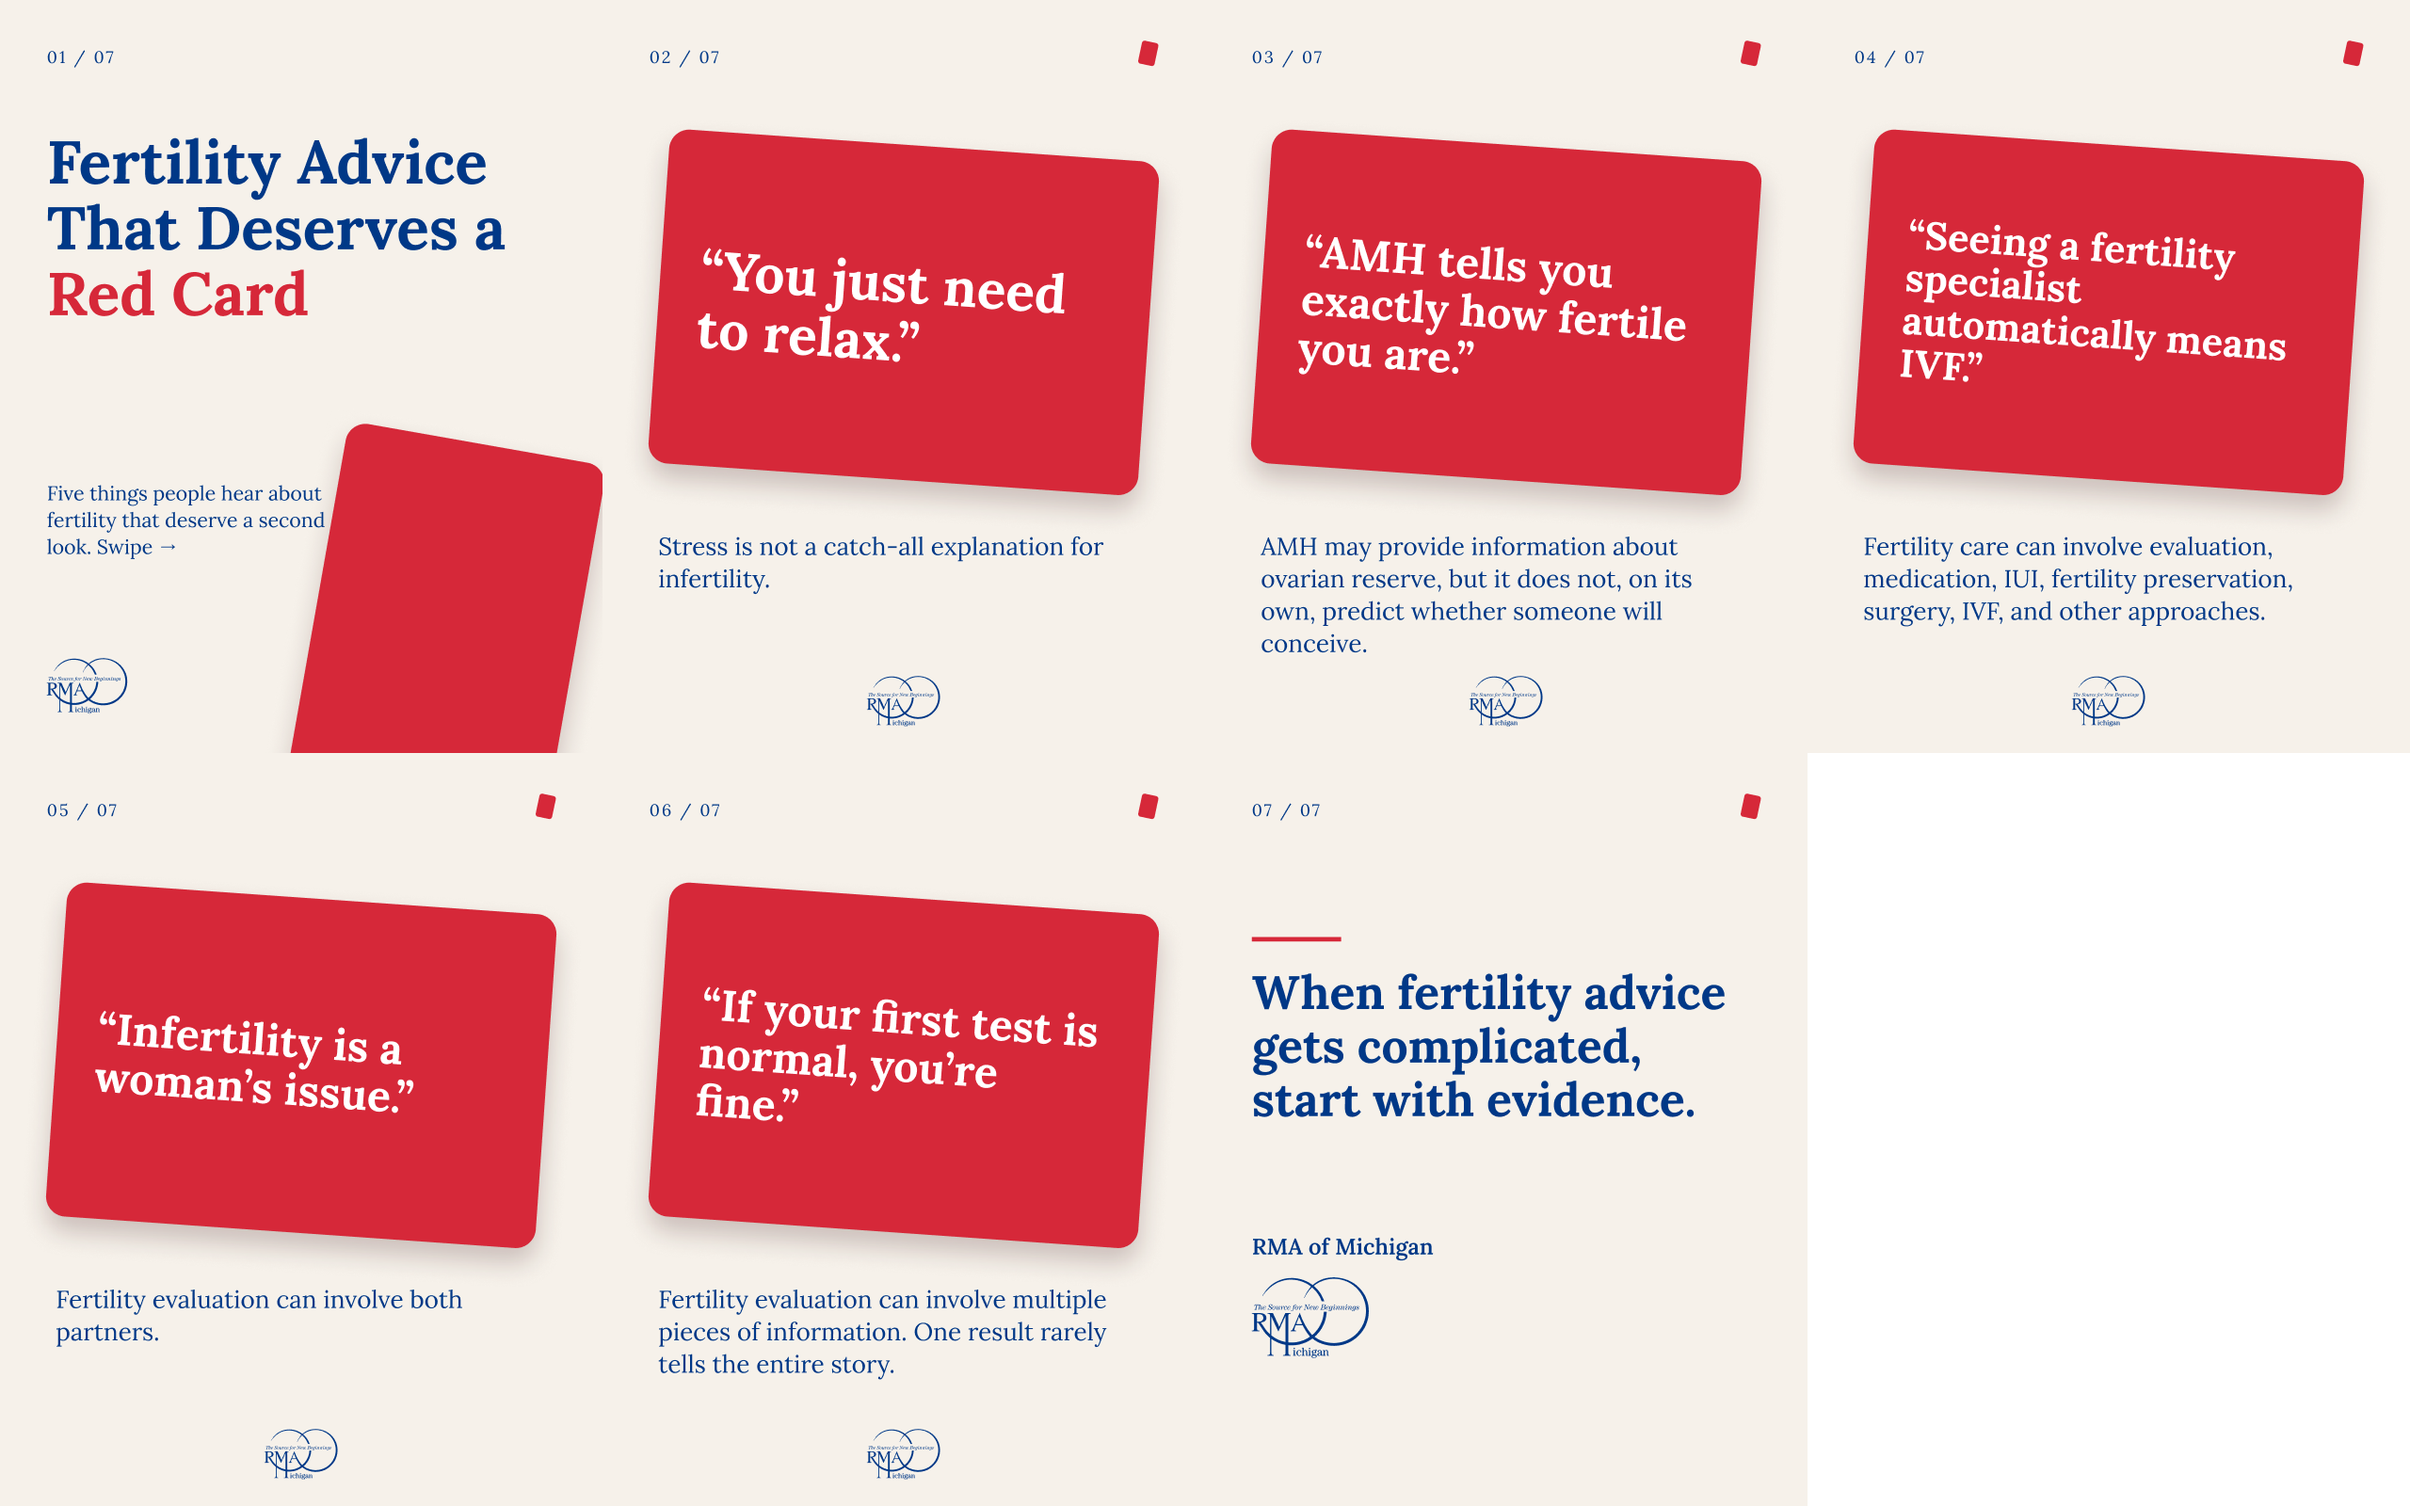
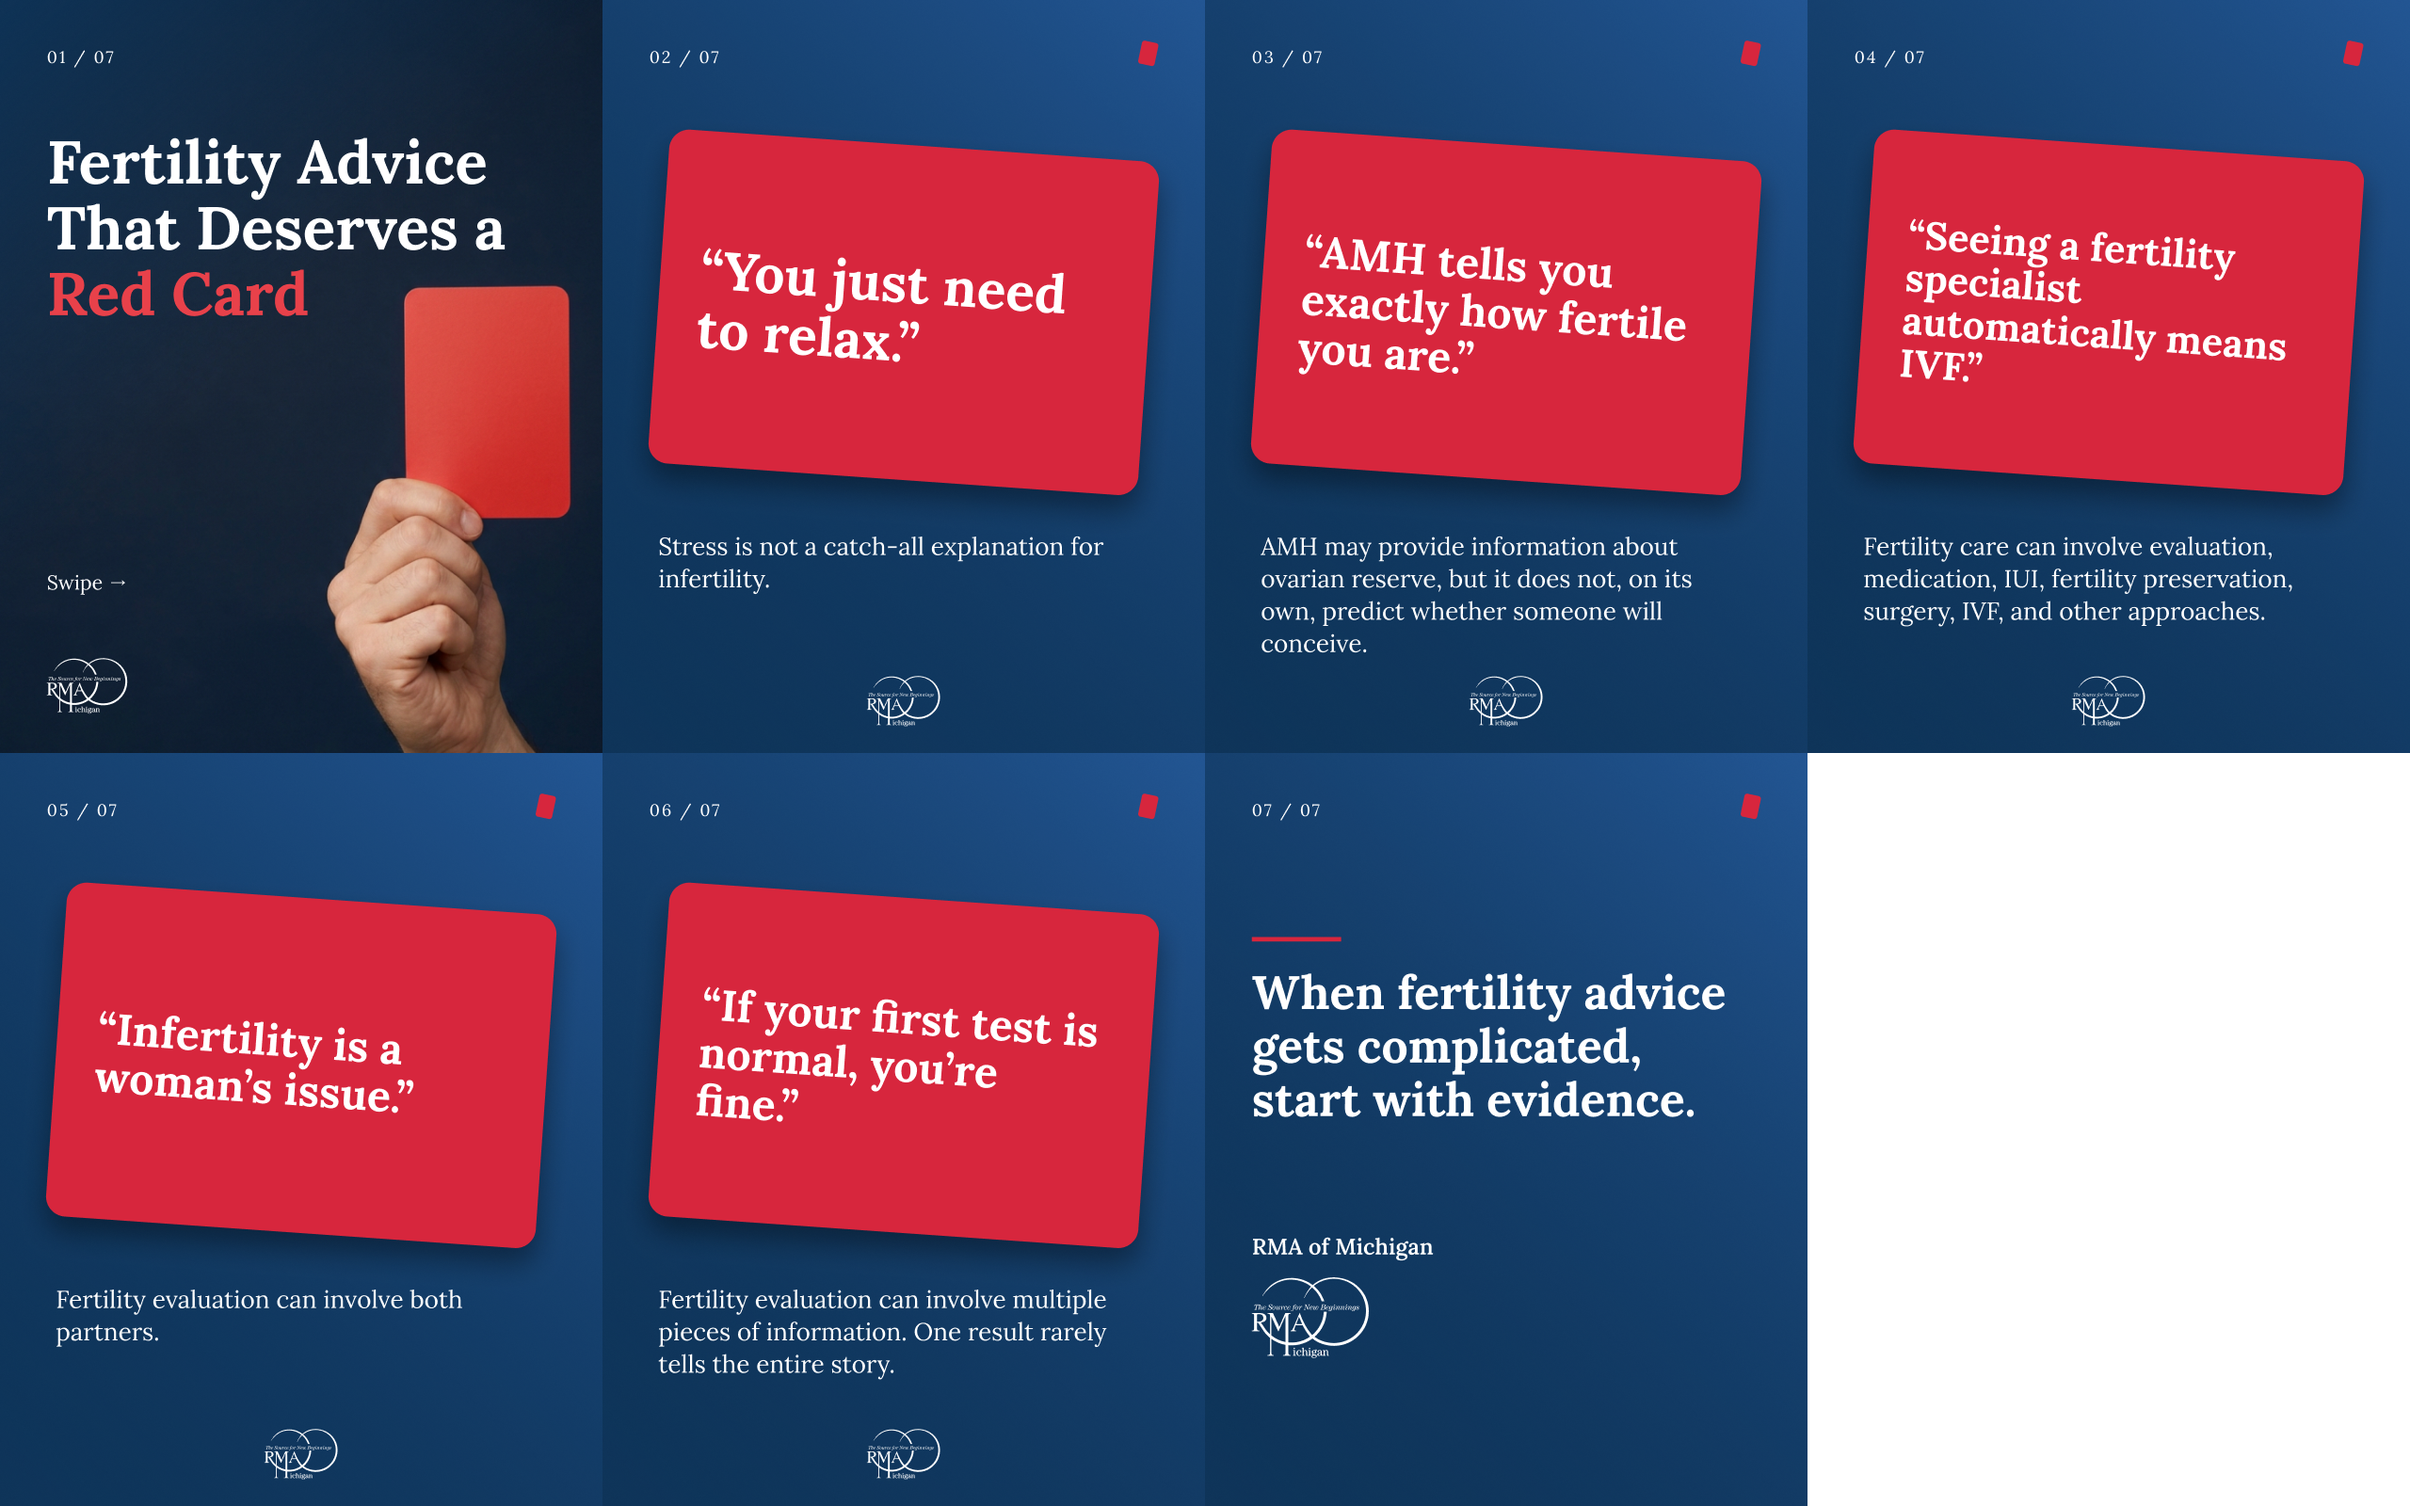
Move the red-card trend carousel onto brand navy with a generated hand photo on the cover
Claude-Session: https://claude.ai/code/session_016yKrfT8RQFRJPW8Btr4Q9U

diff --git a/rma-michigan-social/handoff-nov-1-14.md b/rma-michigan-social/handoff-nov-1-14.md
@@ -57,10 +57,11 @@ section on the **Sandbox** page, laid out the same way as the existing "KH" sect
 ## Trend slot — red-card carousel
 
 Built from the October Trend Slot copy (RMA section only) and placed in the 11/8–14 trend-slot row,
-replacing that week's empty template. Cream editorial background, one misconception per slide set
-on a tilted red card in oversized Lora Bold, clarification beneath in navy, slide counter, small red
-card glyph, and the RMA logo kept small. Copy is verbatim from the doc. Preview:
-`previews/trend-red-card-carousel.png`.
+replacing that week's empty template. Brand navy background with the glow gradient (same as the
+other carousels), one misconception per slide set on a tilted red card in oversized Lora Bold,
+clarification beneath in white, slide counter, small red-card glyph, and the RMA logo kept small.
+The cover uses an AI-generated photo of a hand holding up a red card on a plain navy background,
+blended into the frame. Copy is verbatim from the doc. Preview: `previews/trend-red-card-carousel.png`.
 
 ## Flags for the client / account team
 
